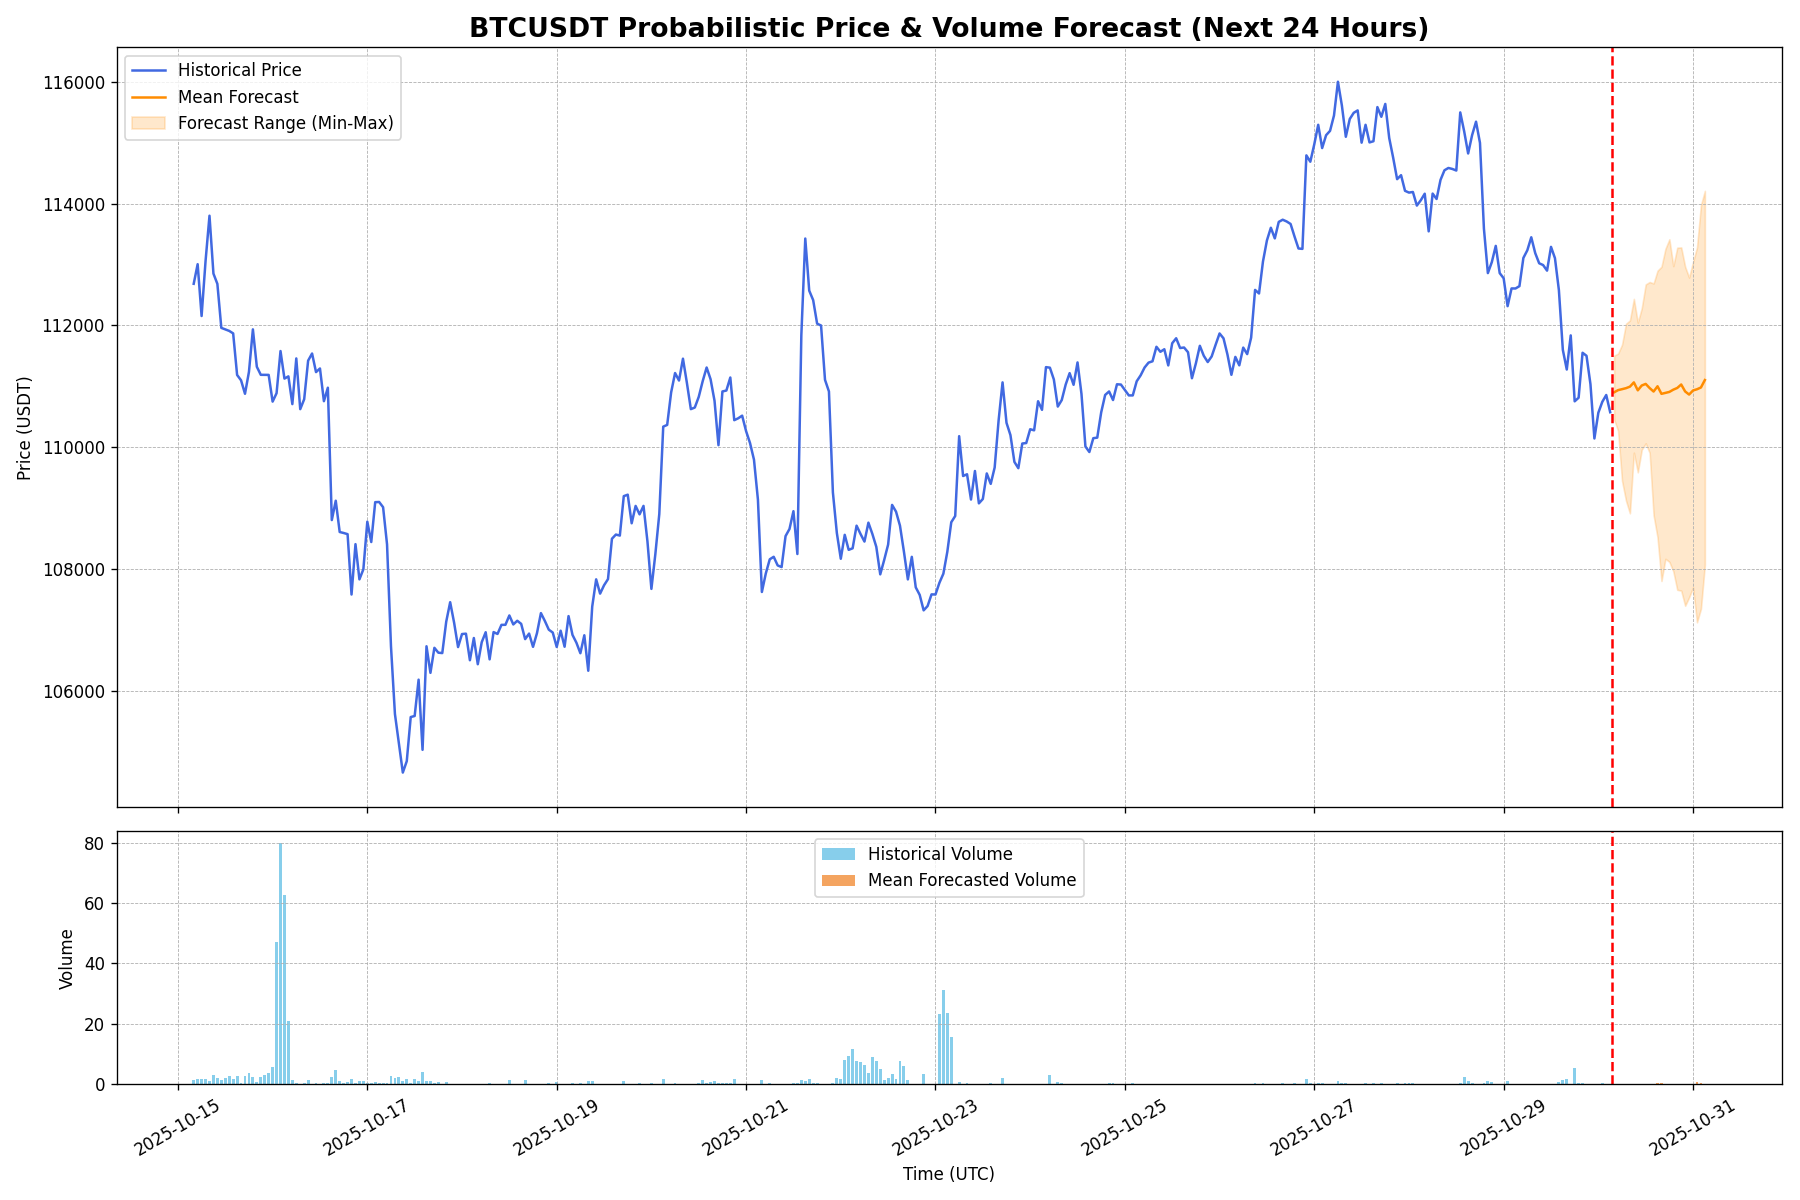
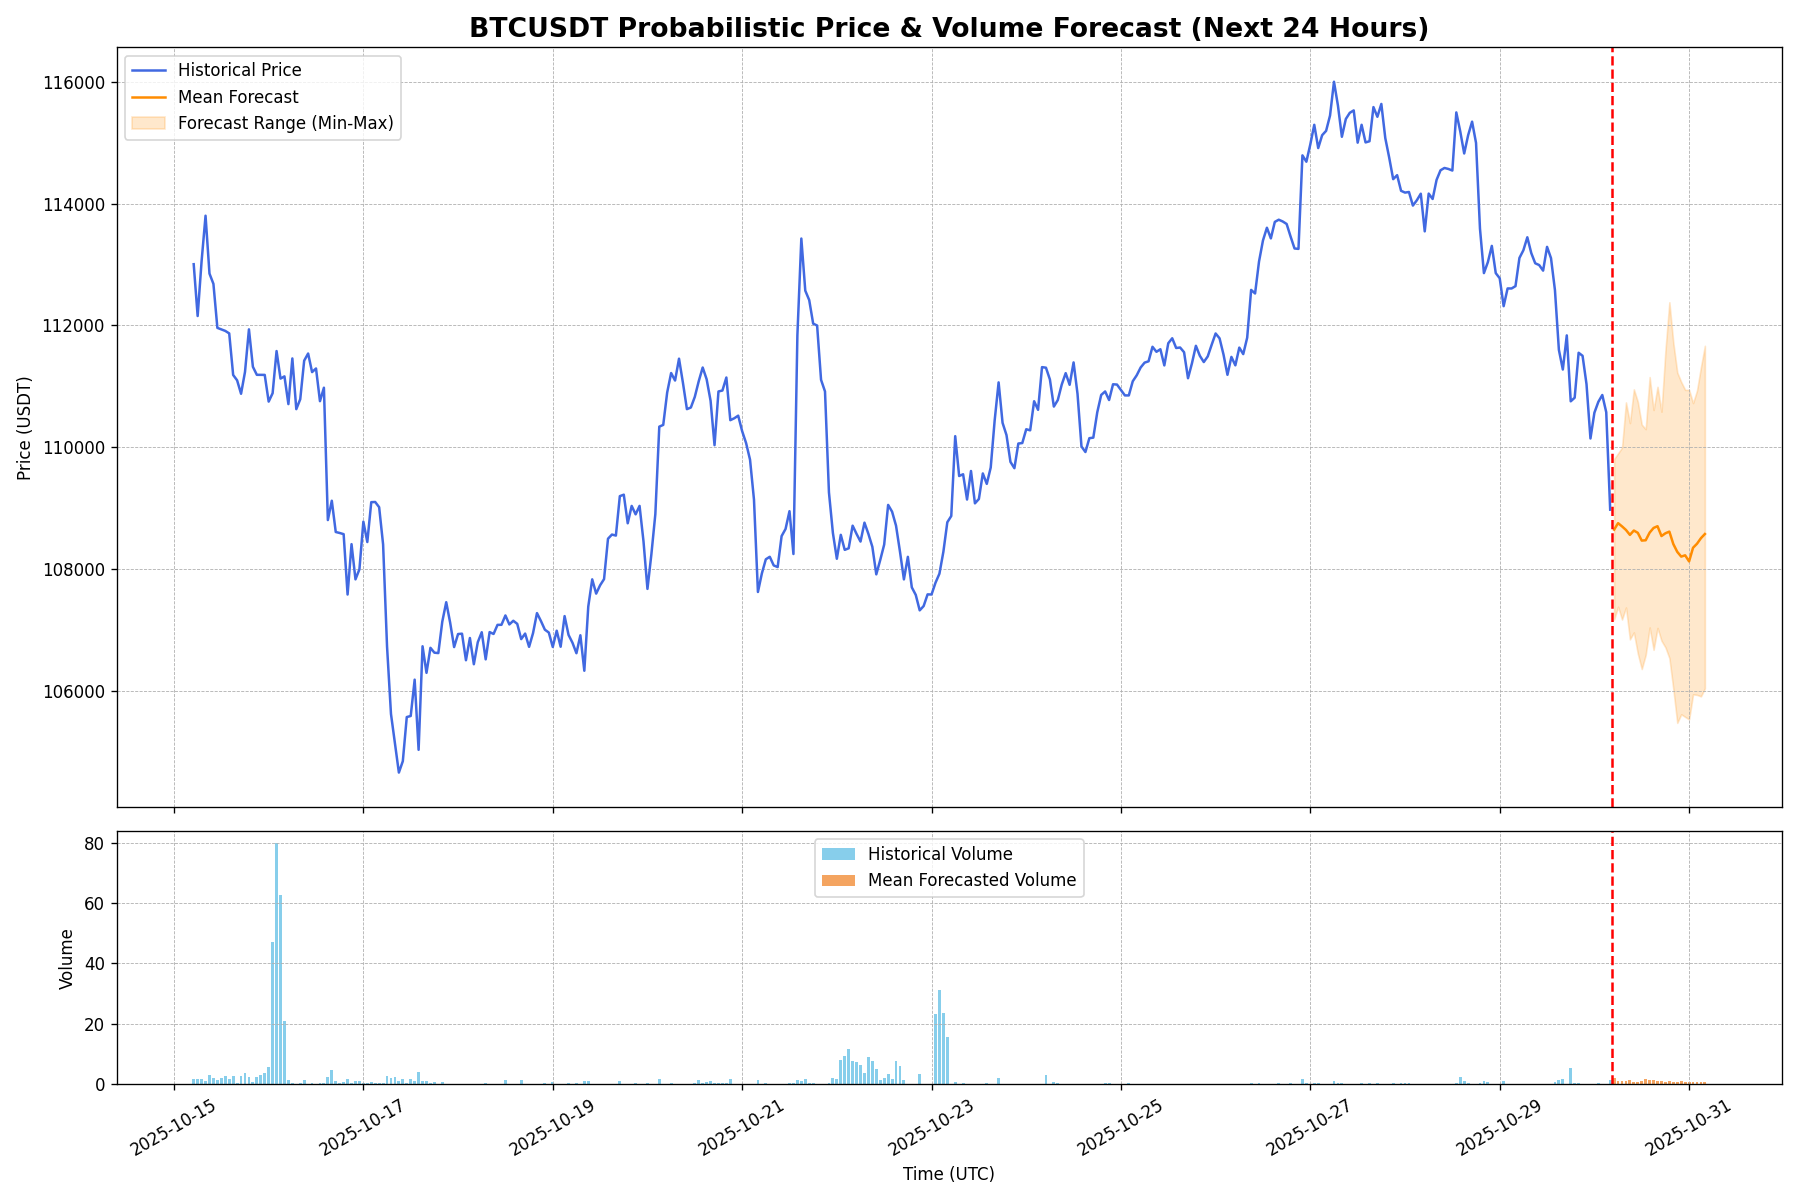
Auto-update forecast for 2025-10-30 05:14 UTC

diff --git a/index.html b/index.html
@@ -22,19 +22,19 @@
         <section id="live-dashboard">
             <h2>Live BTC/USDT Forecast Dashboard</h2>
             <div class="metadata">
-                <span>Last Updated (UTC): <strong id="update-time">2025-10-30 04:13:25</strong></span>
+                <span>Last Updated (UTC): <strong id="update-time">2025-10-30 05:14:04</strong></span>
                 <span>Data Source: Binance | Interval: 1-Hour</span>
             </div>
 
             <div class="metrics-container">
                 <div class="metric-card">
                     <h3>Upside Probability (Next 24h)</h3>
-                    <p class="metric-value" id="upside-prob">70.0%</p>
+                    <p class="metric-value" id="upside-prob">33.3%</p>
                     <div class="metric-desc">The model's confidence that the price in 24 hours will be higher than the last known price.</div>
                 </div>
                 <div class="metric-card">
                     <h3>Volatility Amplification (Next 24h)</h3>
-                    <p class="metric-value" id="vol-amp-prob">6.7%</p>
+                    <p class="metric-value" id="vol-amp-prob">20.0%</p>
                     <div class="metric-desc">The probability that predicted volatility over the next 24h will exceed recent historical volatility.</div>
                 </div>
             </div>
